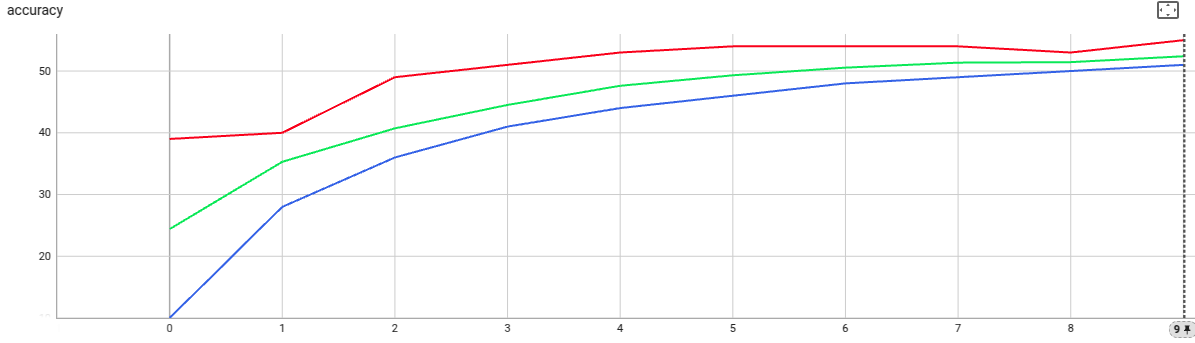
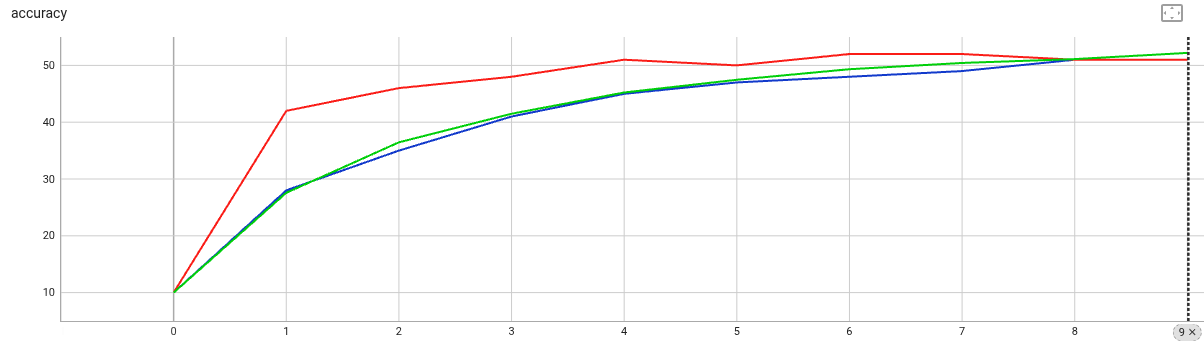
baseline updates and extra checks

diff --git a/nvflare/edge/widgets/evaluator.py b/nvflare/edge/widgets/evaluator.py
@@ -27,6 +27,7 @@ from nvflare.apis.fl_context import FLContext
 from nvflare.app_common.abstract.model import ModelLearnableKey
 from nvflare.app_common.app_constant import AppConstants
 from nvflare.app_common.app_event_type import AppEventType
+from nvflare.fuel.utils.validation_utils import check_positive_int
 from nvflare.widgets.widget import Widget
 
 DEVICE = torch.device("cuda" if torch.cuda.is_available() else "cpu")
@@ -61,6 +62,10 @@ class GlobalEvaluator(Widget):
         elif not isinstance(model_path, str):
             raise ValueError(f"model_path must be either a Pytorch model or class path, but got {type(model_path)}")
 
+        # Validate eval_frequency and max_workers, both must be positive integers
+        check_positive_int("eval_frequency", eval_frequency)
+        check_positive_int("max_workers", max_workers)
+
         self.model_path = model_path
         self.eval_frequency = eval_frequency
         self.torchvision_dataset = torchvision_dataset
@@ -69,10 +74,11 @@ class GlobalEvaluator(Widget):
         self.model = None
         self.data_loader = None
         self.tb_writer = None
-        self.max_workers = max_workers
 
-        self._thread_pool = None
+        # Initialize thread pool
+        self._thread_pool = ThreadPoolExecutor(max_workers=max_workers, thread_name_prefix="GlobalEvaluator")
 
+        # Register event handlers
         self.register_event_handler(EventType.START_RUN, self._initialize)
         self.register_event_handler(AppEventType.GLOBAL_WEIGHTS_UPDATED, self.evaluate)
         self.register_event_handler(EventType.END_RUN, self._handle_end_run)
@@ -179,10 +185,10 @@ class GlobalEvaluator(Widget):
             # Evaluate the model
             metrics = self._eval_model()
 
-            # Write metrics to tensorboard (with safety check)
+            # Write metrics to tensorboard, starting from 0
             if self.tb_writer:
                 for key, value in metrics.items():
-                    self.tb_writer.add_scalar(key, value, current_round)
+                    self.tb_writer.add_scalar(key, value, current_round - 1)
 
             self.logger.info(f"Evaluation {evaluation_id} for round {current_round} completed with metrics: {metrics}")
         except Exception as e:
@@ -212,9 +218,6 @@ class GlobalEvaluator(Widget):
         # Initialize the tensorboard writer
         app_root = fl_ctx.get_prop(FLContextKey.APP_ROOT)
         self.tb_writer = SummaryWriter(log_dir=app_root)
-
-        # Initialize thread pool
-        self._thread_pool = ThreadPoolExecutor(max_workers=self.max_workers, thread_name_prefix="GlobalEvaluator")
 
     def _is_initialized(self) -> bool:
         """Check if the evaluator is properly initialized."""

diff --git a/examples/advanced/edge/baselines/cifar_train_central.py b/examples/advanced/edge/baselines/cifar_train_central.py
@@ -13,10 +13,31 @@
 # limitations under the License.
 
 import torch
+import torch.nn as nn
+from torch.nn import functional as F
 from torch.utils.tensorboard import SummaryWriter
 from torchvision import datasets, transforms
 
-from nvflare.edge.models.model import Cifar10ConvNet
+
+class Cifar10ConvNet(nn.Module):
+    def __init__(self):
+        super().__init__()
+        self.conv1 = nn.Conv2d(in_channels=3, out_channels=6, kernel_size=5, stride=2)
+        # self.pool = nn.MaxPool2d(2, 2)
+        self.conv2 = nn.Conv2d(in_channels=6, out_channels=16, kernel_size=5, stride=2)
+        self.fc1 = nn.Linear(in_features=16 * 5 * 5, out_features=120)
+        self.fc2 = nn.Linear(in_features=120, out_features=84)
+        self.fc3 = nn.Linear(in_features=84, out_features=10)
+
+    def forward(self, x):
+        x = F.relu(self.conv1(x))
+        x = F.relu(self.conv2(x))
+        x = torch.flatten(x, 1)  # flatten all dimensions except batch
+        x = F.relu(self.fc1(x))
+        x = F.relu(self.fc2(x))
+        x = self.fc3(x)
+        return x
+
 
 CIFAR10_ROOT = "/tmp/nvflare/datasets/cifar10"
 DEVICE = "cuda:0" if torch.cuda.is_available() else "cpu"
@@ -60,6 +81,12 @@ def main():
     # Training loop
     for epoch in range(10):
         print(f"Epoch: {epoch}")
+
+        # Evaluate global model
+        acc = evaluate(net.state_dict())
+        tb_writer.add_scalar("accuracy", acc, epoch)
+        print(f"Epoch {epoch} accuracy: {acc}")
+
         running_loss = 0.0
         for i, data in enumerate(train_loader, 0):
             # get the inputs; data is a list of [inputs, labels]
@@ -81,11 +108,6 @@ def main():
                 tb_writer.add_scalar("loss", running_loss / 250, epoch * len(train_loader) + i)
                 print(f"[{epoch}, {i}] loss: {running_loss / 250}")
                 running_loss = 0.0
-
-        # Evaluate global model
-        acc = evaluate(net.state_dict())
-        tb_writer.add_scalar("accuracy", acc, epoch)
-        print(f"Epoch {epoch} accuracy: {acc}")
 
     # Save the final model
     model_name = "cifar_net.pth"

diff --git a/examples/advanced/edge/baselines/cifar_fl_base_job.py b/examples/advanced/edge/baselines/cifar_fl_base_job.py
@@ -12,6 +12,9 @@
 # See the License for the specific language governing permissions and
 # limitations under the License.
 
+import torch
+import torch.nn as nn
+from torch.nn import functional as F
 
 from nvflare import FedJob
 from nvflare.app_common.aggregators.intime_accumulate_model_aggregator import InTimeAccumulateWeightedAggregator
@@ -19,8 +22,28 @@ from nvflare.app_common.shareablegenerators.full_model_shareable_generator impor
 from nvflare.app_common.widgets.intime_model_selector import IntimeModelSelector
 from nvflare.app_common.workflows.scatter_and_gather import ScatterAndGather
 from nvflare.app_opt.pt.file_model_persistor import PTFileModelPersistor
-from nvflare.edge.models.model import Cifar10ConvNet
 from nvflare.job_config.script_runner import ScriptRunner
+
+
+class Cifar10ConvNet(nn.Module):
+    def __init__(self):
+        super().__init__()
+        self.conv1 = nn.Conv2d(in_channels=3, out_channels=6, kernel_size=5, stride=2)
+        # self.pool = nn.MaxPool2d(2, 2)
+        self.conv2 = nn.Conv2d(in_channels=6, out_channels=16, kernel_size=5, stride=2)
+        self.fc1 = nn.Linear(in_features=16 * 5 * 5, out_features=120)
+        self.fc2 = nn.Linear(in_features=120, out_features=84)
+        self.fc3 = nn.Linear(in_features=84, out_features=10)
+
+    def forward(self, x):
+        x = F.relu(self.conv1(x))
+        x = F.relu(self.conv2(x))
+        x = torch.flatten(x, 1)  # flatten all dimensions except batch
+        x = F.relu(self.fc1(x))
+        x = F.relu(self.fc2(x))
+        x = self.fc3(x)
+        return x
+
 
 if __name__ == "__main__":
     n_clients = 16

diff --git a/examples/advanced/edge/baselines/cifar_fl_base.py b/examples/advanced/edge/baselines/cifar_fl_base.py
@@ -13,16 +13,37 @@
 # limitations under the License.
 
 import torch
+import torch.nn as nn
+from torch.nn import functional as F
 from torch.utils.data import Subset
 from torch.utils.tensorboard import SummaryWriter
 from torchvision import datasets, transforms
 
 # (1) import nvflare client API
 import nvflare.client as flare
-from nvflare.edge.models.model import Cifar10ConvNet
 
 CIFAR10_ROOT = "/tmp/nvflare/datasets/cifar10"
 DEVICE = "cuda:0" if torch.cuda.is_available() else "cpu"
+
+
+class Cifar10ConvNet(nn.Module):
+    def __init__(self):
+        super().__init__()
+        self.conv1 = nn.Conv2d(in_channels=3, out_channels=6, kernel_size=5, stride=2)
+        # self.pool = nn.MaxPool2d(2, 2)
+        self.conv2 = nn.Conv2d(in_channels=6, out_channels=16, kernel_size=5, stride=2)
+        self.fc1 = nn.Linear(in_features=16 * 5 * 5, out_features=120)
+        self.fc2 = nn.Linear(in_features=120, out_features=84)
+        self.fc3 = nn.Linear(in_features=84, out_features=10)
+
+    def forward(self, x):
+        x = F.relu(self.conv1(x))
+        x = F.relu(self.conv2(x))
+        x = torch.flatten(x, 1)  # flatten all dimensions except batch
+        x = F.relu(self.fc1(x))
+        x = F.relu(self.fc2(x))
+        x = self.fc3(x)
+        return x
 
 
 def main():
